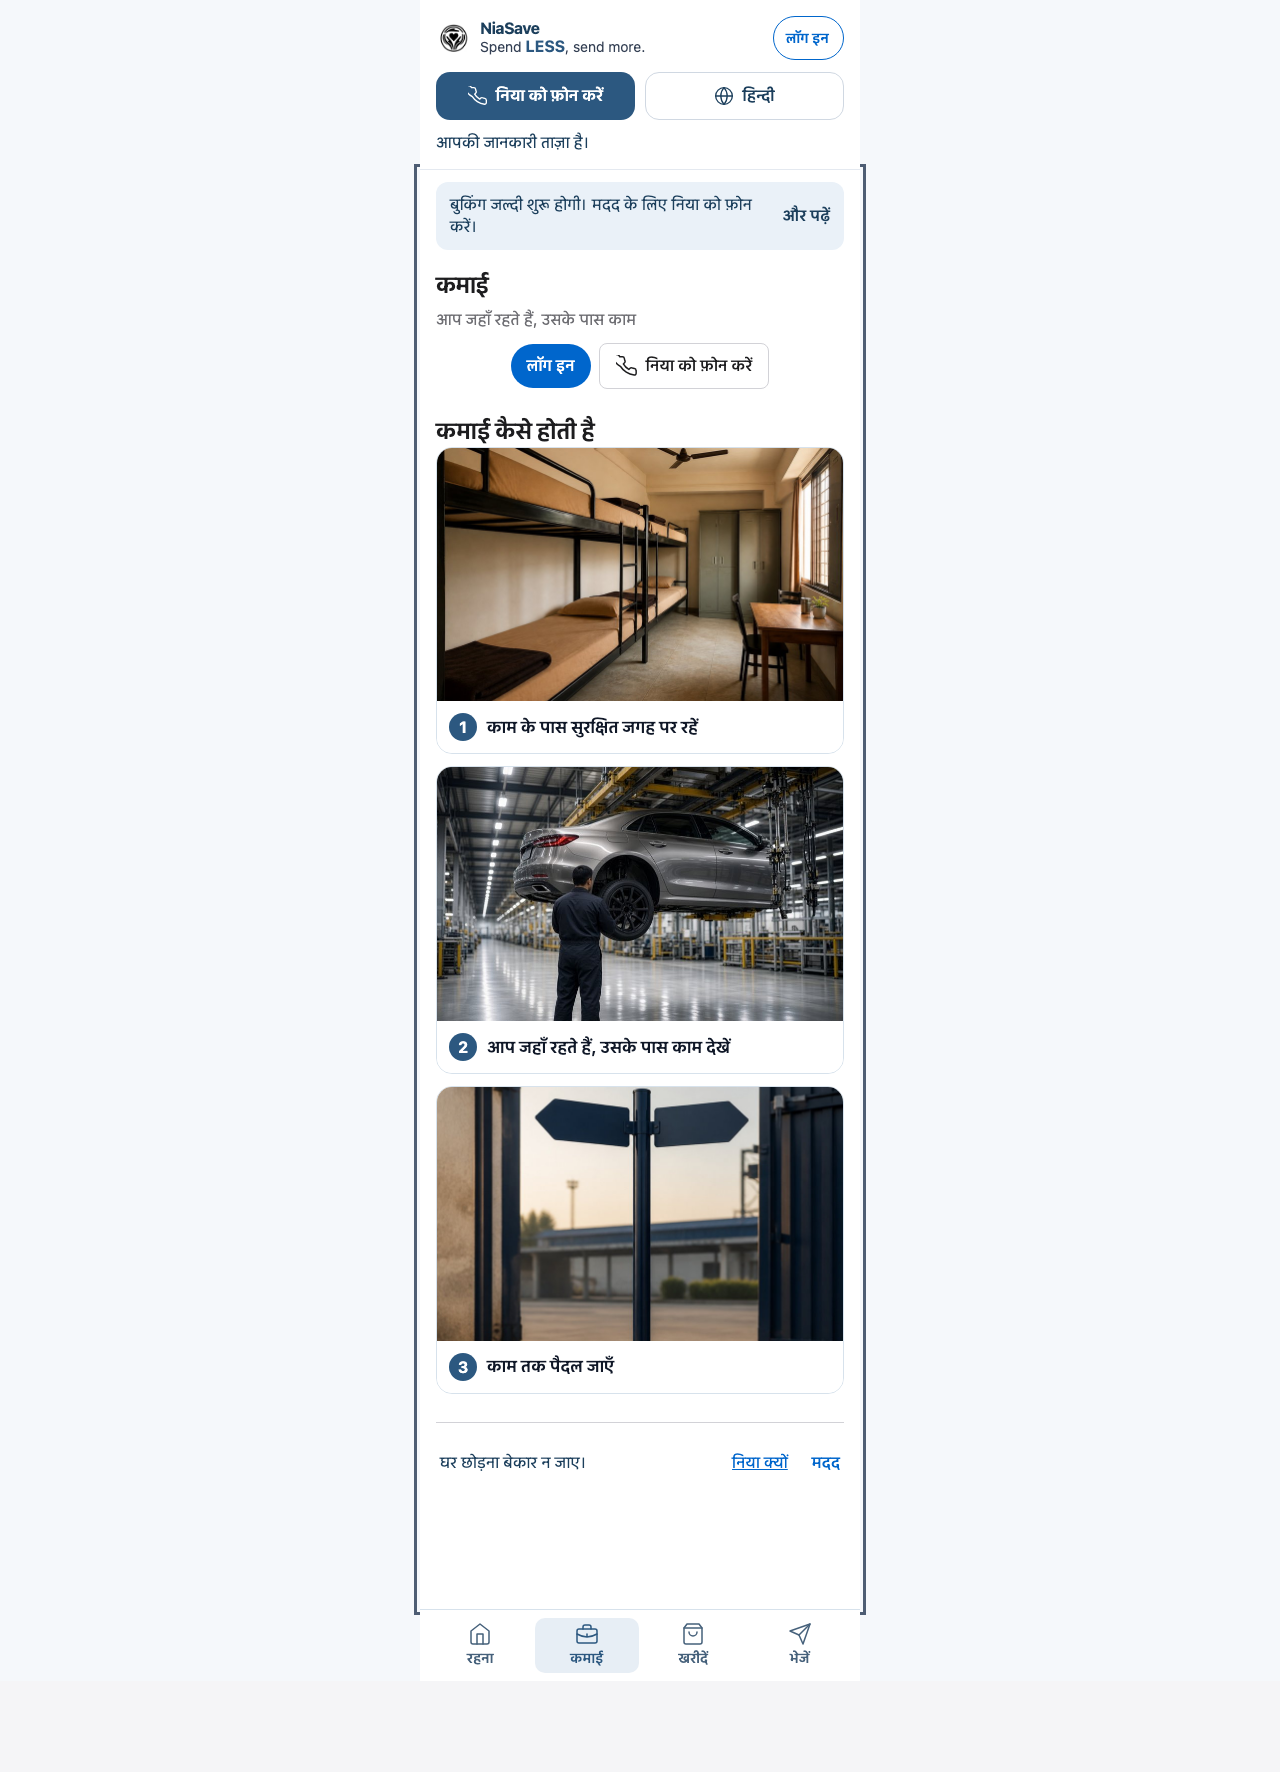
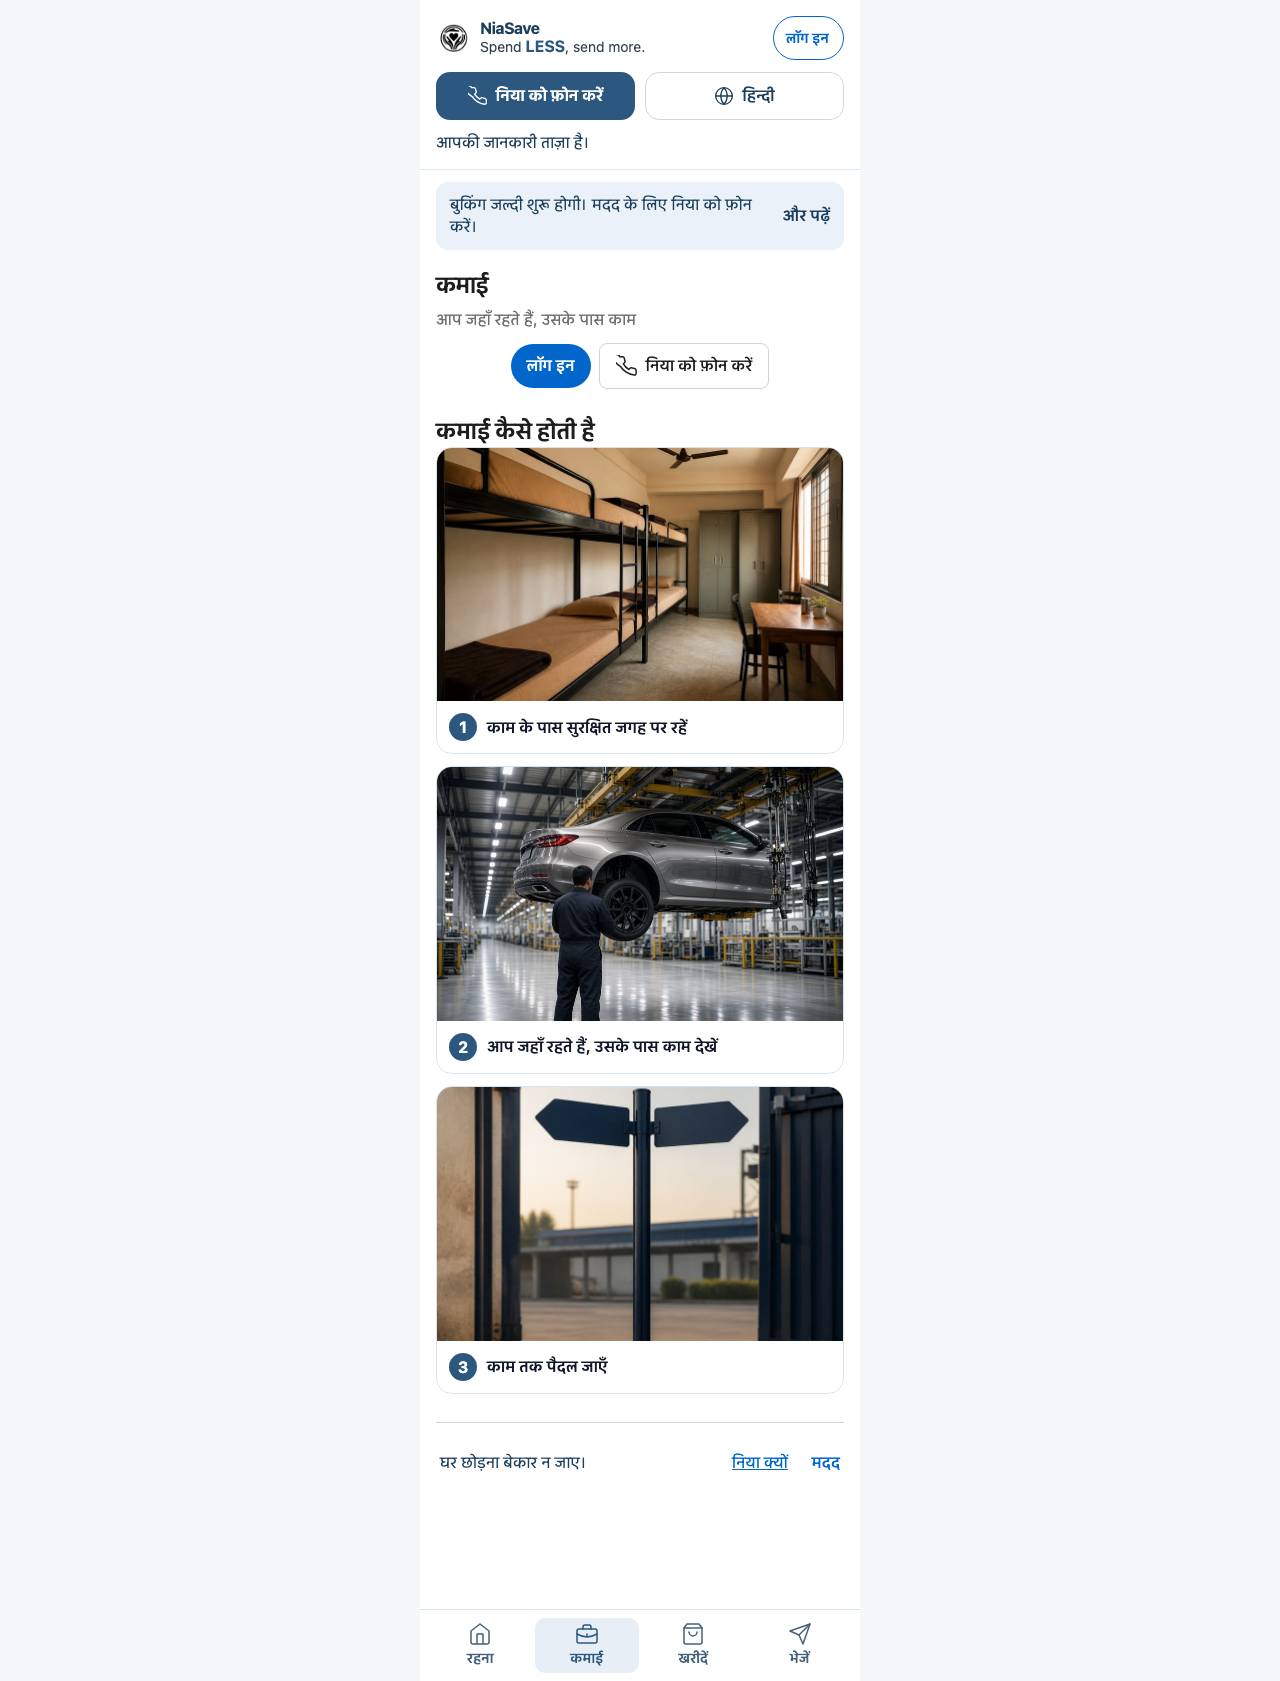
PC-1: Earn caption stays on the three sizes
Picture-card PRD section 4.2 says 17px/600 #101828 for the step caption. The founder kept three sizes, so the caption is 16px with the same weight and colour. The clarity allowlist is [14, 16, 24] again in all four places. The number badge stays 16px/700 white on #2C5880.

diff --git a/tests/browser/ui-clarity.spec.js b/tests/browser/ui-clarity.spec.js
@@ -211,7 +211,7 @@ for (const width of [360, 390]) {
           const seen = new Set();
           for (const fact of facts) {
             sizes.add(Math.round(fact.size));
-            if (![14, 16, 17, 24].includes(Math.round(fact.size))) oddType.push(Math.round(fact.size) + 'px ' + fact.text.slice(0, 70));
+            if (![14, 16, 24].includes(Math.round(fact.size))) oddType.push(Math.round(fact.size) + 'px ' + fact.text.slice(0, 70));
             if (violationKind(fact.text) && !copyCovers(fact.text, baseline.entries, name)) banned.push(file + ': ' + fact.text);
             if (fact.size < 14) {
               const key = file + '\0' + fact.text;
@@ -235,7 +235,7 @@ for (const width of [360, 390]) {
             const openFacts = await visibleFacts(page);
             for (const fact of openFacts) {
               sizes.add(Math.round(fact.size));
-            if (![14, 16, 17, 24].includes(Math.round(fact.size))) oddType.push(Math.round(fact.size) + 'px ' + fact.text.slice(0, 70));
+            if (![14, 16, 24].includes(Math.round(fact.size))) oddType.push(Math.round(fact.size) + 'px ' + fact.text.slice(0, 70));
               if (violationKind(fact.text) && !copyCovers(fact.text, baseline.entries, name)) banned.push(openFile + ': ' + fact.text);
               if (fact.size < 14) {
                 const key = openFile + '\0' + fact.text;
@@ -260,7 +260,7 @@ for (const width of [360, 390]) {
             const openFile = file + '/login';
             for (const fact of await visibleFacts(page)) {
               sizes.add(Math.round(fact.size));
-            if (![14, 16, 17, 24].includes(Math.round(fact.size))) oddType.push(Math.round(fact.size) + 'px ' + fact.text.slice(0, 70));
+            if (![14, 16, 24].includes(Math.round(fact.size))) oddType.push(Math.round(fact.size) + 'px ' + fact.text.slice(0, 70));
               if (violationKind(fact.text) && !copyCovers(fact.text, baseline.entries, name)) banned.push(openFile + ': ' + fact.text);
               if (fact.size < 14) fonts.push({kind: 'font', file: openFile, screen: name, string: fact.text, size: fact.size});
             }
@@ -275,7 +275,7 @@ for (const width of [360, 390]) {
               const openFile = file + '/books-add';
               for (const fact of await visibleFacts(page)) {
                 sizes.add(Math.round(fact.size));
-            if (![14, 16, 17, 24].includes(Math.round(fact.size))) oddType.push(Math.round(fact.size) + 'px ' + fact.text.slice(0, 70));
+            if (![14, 16, 24].includes(Math.round(fact.size))) oddType.push(Math.round(fact.size) + 'px ' + fact.text.slice(0, 70));
                 if (violationKind(fact.text) && !copyCovers(fact.text, baseline.entries, name)) banned.push(openFile + ': ' + fact.text);
                 if (fact.size < 14) fonts.push({kind: 'font', file: openFile, screen: name, string: fact.text, size: fact.size});
               }

diff --git a/commerce-shell.css b/commerce-shell.css
@@ -324,7 +324,8 @@ body .member-shell #content .shop-v2-canvas{max-width:720px;min-width:0;backgrou
 .earn-how-steps img[data-earn-step="3"]{object-position:center 30%}
 .earn-how-caption{display:flex;align-items:center;gap:10px;padding:12px;background:#fff}
 .earn-how-num{display:inline-flex;flex:none;align-items:center;justify-content:center;width:28px;height:28px;border-radius:50%;background:#2C5880;color:#fff;font-size:16px;font-weight:700;line-height:1}
-.earn-how-line{display:block;min-width:0;padding:0;font-size:17px;font-weight:600;line-height:1.35;color:#101828}
+/* PRD 4.2 says 17px/600 #101828. The founder kept three sizes, so this caption is 16px. */
+.earn-how-line{display:block;min-width:0;padding:0;font-size:16px;font-weight:600;line-height:1.35;color:#101828}
 .earn-how-actions,.send-example-actions{display:flex;flex-wrap:wrap;gap:8px;align-items:center}
 .store-head .earn-how-actions{margin:12px 0 0;justify-content:center}
 body.mesha-dark .store-earn .store-head.store-task:has(.earn-how-actions){text-align:left;padding:20px 16px 8px}
@@ -372,5 +373,5 @@ body.mesha-dark .member-shell [role="status"],
 body.mesha-dark .pillar-state,
 body.mesha-dark #sync-state,
 body.mesha-dark .nia-transfer-status{color:#1C3F5C}
-body.mesha-dark .member-shell #content .earn-how-line{font-size:17px!important;font-weight:600;color:#101828}
+body.mesha-dark .member-shell #content .earn-how-line{font-size:16px!important;font-weight:600;color:#101828}
 body.mesha-dark .member-shell #content .earn-how-num{font-size:16px!important;font-weight:700;color:#fff}

diff --git a/docs/ui-clarity/DECISIONS.md b/docs/ui-clarity/DECISIONS.md
@@ -15,3 +15,4 @@ One line each: date, decision, why. Copied into docs/ui-clarity/DECISIONS.md by 
 - 2026-09-27 | PR 1 also lifts to 14 px any line it rewrites that sits below 14 px today | the font rows are keyed to the exact visible string, and the ratchet rejects any new row, so rewriting a 12 px line like "Checking updates" or "Why Nia" would create a new sub-14 px row and turn CI red. The choice was to relax the ratchet or to bring PR 7's one rule forward for the lines PR 1 touches. Relaxing a guard to fit a schedule is how false greens start, so the type rule comes forward. PR 7 still owns the full three-size pass.
 - 2026-09-27 | The watch moved off file-mtime probes and onto the builder's own event stream, the branch head and the run budget | `find -newermt '-40 minutes'` is rejected by this Mac's find as an invalid timestamp, and with stderr suppressed every progress probe reported zero activity, which read as a stalled builder while Grok was in fact on loop 30 with tool calls landing every few seconds. A watch that cannot tell "no progress" from "cannot measure progress" is worse than none, because it triggers the stuck rule against healthy work.
 - 2026-09-28 | A8.1 is waived. Kannada and Marathi are not being built | The founder waived A8.1. PR 8 ships the four languages `commerce-i18n.js` supports: English, Hindi, Tamil and Bengali. The `kn` and `mr` files stay on disk and stay current.
+- 2026-09-28 | Earn step caption is 16px, not the 17px in picture-card PRD section 4.2 | Section 4.2 says 17px/600 #101828. The clarity rule is three sizes, 14, 16 and 24. The founder picked three sizes. Weight and colour stay 600 and #101828. The number badge stays 16px/700 white on #2C5880. Do not widen the clarity allowlist to fit 17.
